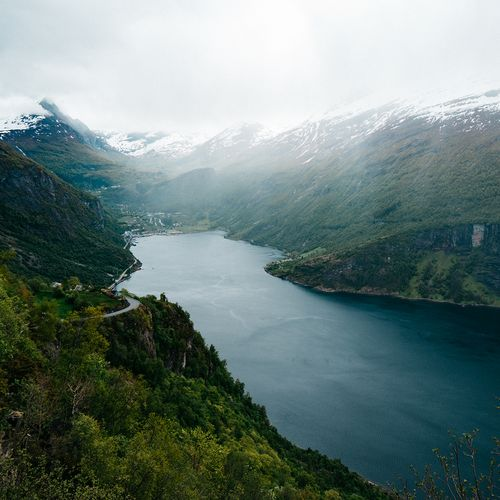
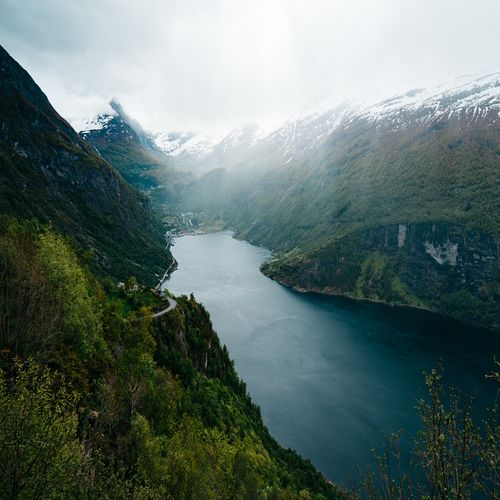
core functionality is done

diff --git a/src/routes/api/processing.ts b/src/routes/api/processing.ts
@@ -15,7 +15,9 @@ processing.get("/", (req, res) => {
   const height = Number(req.query.height);
 
   sharp(inputFile)
-    .resize((width as unknown) as number, (height as unknown) as number)
+    .resize((width as unknown) as number, (height as unknown) as number, {
+      fit: "fill",
+    })
     .toFile(`output/${width}_${height}_` + outputFile, function(err) {})
     .toBuffer()
     .then((data) => {
@@ -24,6 +26,9 @@ processing.get("/", (req, res) => {
           __dirname + `../../../../output/${width}_${height}_` + outputFile
         )
       );
+    })
+    .catch((err) => {
+      res.send("image couldn't be retreived: " + err);
     });
 });
 

diff --git a/src/routes/index.ts b/src/routes/index.ts
@@ -1,5 +1,5 @@
 import processing from "./api/processing";
-import searcher from "./api/searcher";
+//import searcher from "./api/searcher";
 import express from "express";
 
 const fs = require("fs");
@@ -10,6 +10,6 @@ routes.get("/", (req, res) => {
   res.send("kosom main route");
 });
 
-routes.use("/processing", processing, searcher);
+routes.use("/processing", processing);
 //routes.use("/processing", searcher);
 export default routes;
